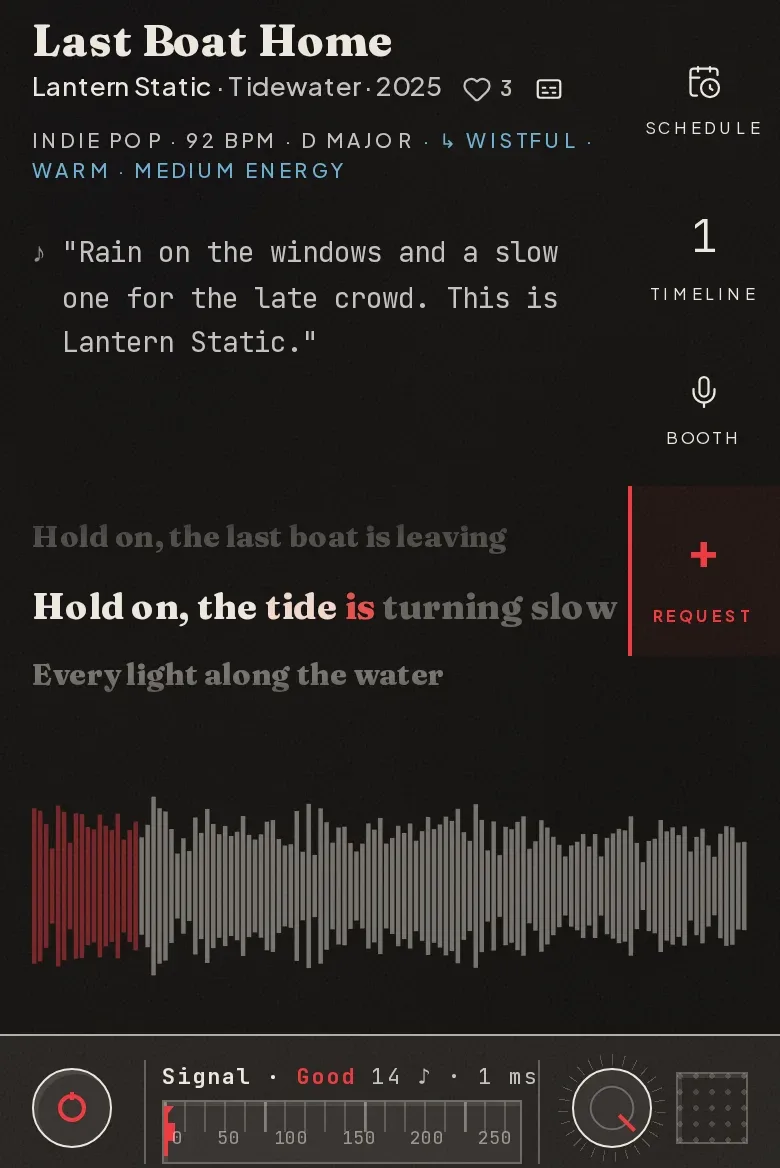
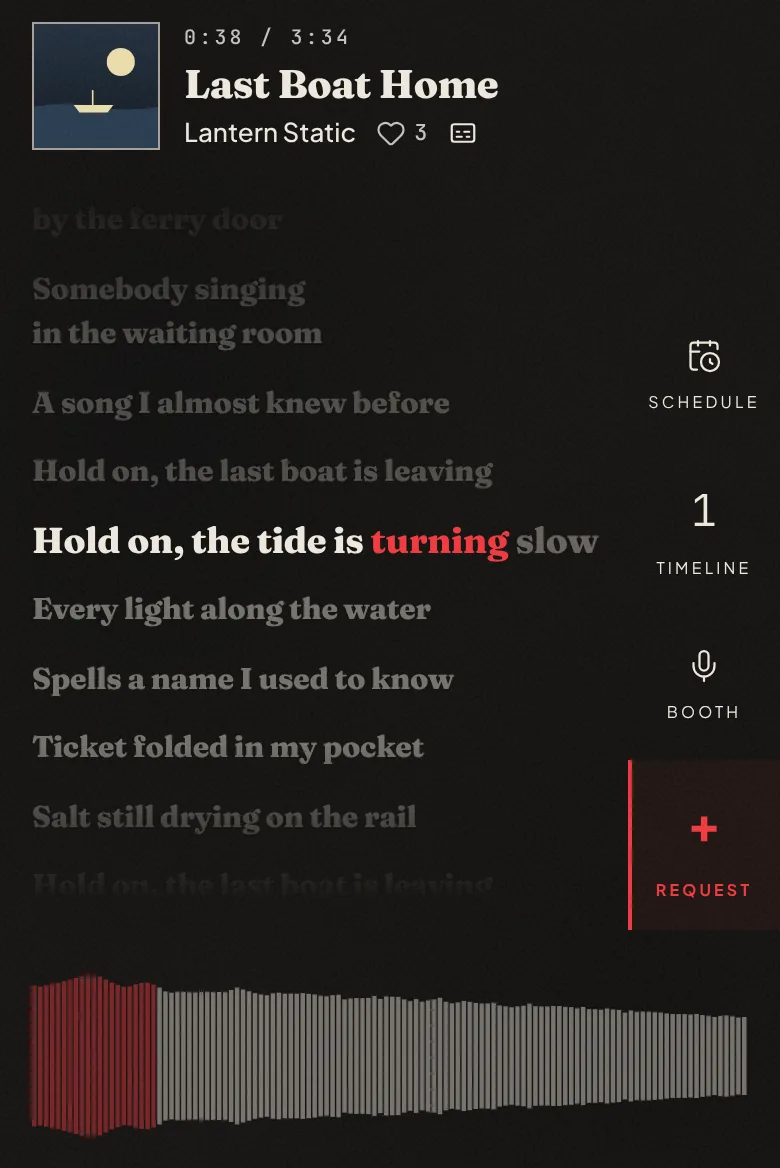
fix(lyrics): give lyrics the phone screen on the Classic skin (#2085)
With lyrics on, a phone stacked the cover over a two-line title, the
album and year, the tags, a six-line DJ line and the up-next tease above
a 124px lyrics band. The stage overflowed both ways: the cover slid
under the top bar and the DJ line ran into the lyrics.

Below sm, on a screen tall enough for lyrics, the track info now shrinks
to one row under the top bar: a 64px cover beside a one-line title, the
clock, and the artist with the heart and the lyrics button. It drops what
the lg split already drops (tags, DJ line, up next) plus the album, year,
token count and "Now playing" label. The lyrics fill everything from just
under that row to the waveform (410px on a 412x790 phone, up from 124px).
Tablet widths keep the band, lg keeps its split, and short phones still
hide the lyrics as before.

The sing-along dispatch's phone paragraph, screenshot and alt text are
updated to match, recaptured against a stand-in station with the post's
invented track and invented lyric lines.

Claude-Session: https://claude.ai/code/session_01AwGkTqgfSnjybk2UKfYNK2

diff --git a/web/components/skins/classic/CenterStage.tsx b/web/components/skins/classic/CenterStage.tsx
@@ -126,8 +126,8 @@ export interface CenterStageProps {
   /** Head of the controller's upcoming queue. Null when the queue is empty. */
   upNext: QueueEntry | null;
   /** Lyrics are showing (AmbientLyrics), synced or not: the stage gives them
-   *  the right half on wide screens and a band above the waveform on narrow
-   *  ones. */
+   *  the right half on wide screens, everything under a one-row header on a
+   *  phone, and a band above the waveform in between. */
   lyricsShown?: boolean;
   /** This listener's lyrics; absent while the station has lyrics off. */
   lyrics?: StageLyrics | null;
@@ -230,12 +230,19 @@ export default memo(function CenterStage({ nowPlaying, trackStartedAt, llmTokens
     // line. Narrower screens add --lyrics-band to the bottom reserve for the
     // band above the waveform. That band is left out on a short screen below
     // lg, so the reserve is too.
+    // A phone (below sm, tall enough for the lyrics) had no room for the band:
+    // the cover stacked over a two-line title, the tags and the DJ line ran
+    // out of the stage, up under the top bar and down into the lyrics. There
+    // the stage shrinks to one row under the top bar, a 64px cover beside a
+    // one-line title and the artist, and drops what lg drops. AmbientLyrics
+    // starts the lyrics at a fixed 152px below it, so the row stays ~65px.
     <div
       className={cn(
         'absolute top-[72px] right-[80px] bottom-[calc(220px+var(--lyrics-band,0px))] left-4 flex flex-col items-start justify-center sm:right-24 sm:left-8 [@media(min-width:640px)_and_(max-height:759px)]:bottom-[calc(212px+var(--lyrics-band,0px))] [@media(min-width:640px)_and_(max-height:759px)]:justify-end [@media(min-width:640px)_and_(min-height:760px)]:bottom-[calc(300px+var(--lyrics-band,0px))]',
         lyricsShown && '[--lyrics-band:132px] lg:[--lyrics-band:0px] [@media(max-width:1023px)_and_(max-height:699px)]:[--lyrics-band:0px]',
         // The column's rule runs up to the top bar's (49px at lg).
         lyricsShown && 'lg:top-[49px] lg:right-auto lg:left-0 lg:w-[360px] lg:border-r lg:border-separator-strong lg:px-8',
+        lyricsShown && '[@media(max-width:639px)_and_(min-height:700px)]:bottom-auto',
       )}
     >
       {/* Above the stage's lyrics (z-[1]), which the lyrics settings can
@@ -244,6 +251,8 @@ export default memo(function CenterStage({ nowPlaying, trackStartedAt, llmTokens
         className={cn(
           'relative isolate z-[2] flex flex-col items-start gap-3 sm:flex-row sm:items-center sm:gap-6',
           lyricsShown && 'lg:flex-col lg:items-start lg:gap-5',
+          // Full width, so the one-line title truncates rather than widening the row.
+          lyricsShown && '[@media(max-width:639px)_and_(min-height:700px)]:w-full [@media(max-width:639px)_and_(min-height:700px)]:flex-row [@media(max-width:639px)_and_(min-height:700px)]:items-center',
         )}
       >
         {/* Reserve the artwork slot even without a cover to prevent layout shifts. */}
@@ -258,7 +267,7 @@ export default memo(function CenterStage({ nowPlaying, trackStartedAt, llmTokens
             // cover. The 96px floor is what phones get: 14vw is only ~55px on a
             // 390px screen, too small a target for the tap-to-timeline.
             'v3-cover-frame v3-focus relative h-[clamp(96px,min(14vw,20vh),240px)] w-[clamp(96px,min(14vw,20vh),240px)] shrink-0 appearance-none border-0 bg-transparent p-0',
-            lyricsShown && 'lg:h-[min(200px,24vh)] lg:w-[min(200px,24vh)]',
+            lyricsShown && 'lg:h-[min(200px,24vh)] lg:w-[min(200px,24vh)] [@media(max-width:639px)_and_(min-height:700px)]:size-16',
             rippleActive && 'v3-cover-live',
           )}
         >
@@ -293,31 +302,34 @@ export default memo(function CenterStage({ nowPlaying, trackStartedAt, llmTokens
           <span className="v3-cover-tick v3-cover-tick--bl" aria-hidden="true" />
           <span className="v3-cover-tick v3-cover-tick--br" aria-hidden="true" />
         </button>
-        <div className="relative min-w-0">
-          <div className="v3-caption mb-[14px] text-muted">
+        {/* Static in the phone view, so the lyrics settings hang from the
+            whole row rather than from beside the cover. */}
+        <div className={cn('relative min-w-0', lyricsShown && '[@media(max-width:639px)_and_(min-height:700px)]:static')}>
+          <div className={cn('v3-caption mb-[14px] text-muted', lyricsShown && '[@media(max-width:639px)_and_(min-height:700px)]:mb-1 [@media(max-width:639px)_and_(min-height:700px)]:truncate')}>
             {offline ? (
               'Off air'
             ) : (
               <>
-                Now playing
+                {/* The phone view's row is plainly the track on air, and the
+                    label would push the clock off a narrow phone. */}
+                <span className={cn(lyricsShown && '[@media(max-width:639px)_and_(min-height:700px)]:hidden')}>
+                  Now playing{live ? ' — ' : ''}
+                </span>
                 {live && duration > 0 ? (
-                  <>
-                    {' — '}
-                    <button
-                      type="button"
-                      onClick={toggleClock}
-                      title={showRemaining ? 'Show elapsed time' : 'Show time remaining'}
-                      aria-label={showRemaining ? 'Time remaining — switch to elapsed' : 'Elapsed time — switch to remaining'}
-                      className="v3-focus v3-tab-num cursor-pointer border-0 bg-transparent p-0 font-[inherit] text-inherit uppercase"
-                    >
-                      {showRemaining
-                        ? `-${fmtTime(remaining)} / ${fmtTime(duration)}`
-                        : `${fmtTime(elapsed)} / ${fmtTime(duration)}`}
-                    </button>
-                  </>
-                ) : live ? ` — ${fmtTime(elapsed)}` : ''}
+                  <button
+                    type="button"
+                    onClick={toggleClock}
+                    title={showRemaining ? 'Show elapsed time' : 'Show time remaining'}
+                    aria-label={showRemaining ? 'Time remaining — switch to elapsed' : 'Elapsed time — switch to remaining'}
+                    className="v3-focus v3-tab-num cursor-pointer border-0 bg-transparent p-0 font-[inherit] text-inherit uppercase"
+                  >
+                    {showRemaining
+                      ? `-${fmtTime(remaining)} / ${fmtTime(duration)}`
+                      : `${fmtTime(elapsed)} / ${fmtTime(duration)}`}
+                  </button>
+                ) : live ? fmtTime(elapsed) : ''}
                 {llmTokens != null && (
-                  <>
+                  <span className={cn(lyricsShown && '[@media(max-width:639px)_and_(min-height:700px)]:hidden')}>
                     {' · '}
                     <span
                       className="inline-flex items-center gap-1 align-middle text-ink-faint"
@@ -327,7 +339,7 @@ export default memo(function CenterStage({ nowPlaying, trackStartedAt, llmTokens
                       <Coins size={12} strokeWidth={1.75} aria-hidden="true" />
                       <CountUp value={llmTokens} className="v3-tab-num" />
                     </span>
-                  </>
+                  </span>
                 )}
               </>
             )}
@@ -345,17 +357,28 @@ export default memo(function CenterStage({ nowPlaying, trackStartedAt, llmTokens
                   <h1
                     className={cn(
                       'v3-title m-0 line-clamp-2 text-ink',
-                      // .v3-title is unlayered, so its size yields only to !.
+                      // .v3-title is unlayered, so its size yields only to !,
+                      // and its text-wrap to a nowrap that is !, too.
                       lyricsShown && 'lg:text-[clamp(30px,3vw,46px)]!',
+                      lyricsShown && '[@media(max-width:639px)_and_(min-height:700px)]:block [@media(max-width:639px)_and_(min-height:700px)]:truncate! [@media(max-width:639px)_and_(min-height:700px)]:text-[20px]! [@media(max-width:639px)_and_(min-height:700px)]:leading-[1.2]!',
                     )}
                     title={nowPlaying?.title}
                   >
                     {nowPlaying?.title}
                   </h1>
-                  <div className="mt-[4px] text-[clamp(13px,1.4vw,18px)] leading-snug font-medium text-muted">
-                    <span className="text-ink">{nowPlaying?.artist || 'Unknown artist'}</span>
-                    {nowPlaying?.album && <span> · {nowPlaying.album}</span>}
-                    {nowPlaying?.year && <span> · {nowPlaying.year}</span>}
+                  {/* One line in the phone view: the artist truncates so the
+                      heart and the lyrics button stay on it. */}
+                  <div
+                    className={cn(
+                      'mt-[4px] text-[clamp(13px,1.4vw,18px)] leading-snug font-medium text-muted',
+                      lyricsShown && '[@media(max-width:639px)_and_(min-height:700px)]:flex [@media(max-width:639px)_and_(min-height:700px)]:items-center',
+                    )}
+                  >
+                    <span className={cn('text-ink', lyricsShown && '[@media(max-width:639px)_and_(min-height:700px)]:min-w-0 [@media(max-width:639px)_and_(min-height:700px)]:truncate')}>
+                      {nowPlaying?.artist || 'Unknown artist'}
+                    </span>
+                    {nowPlaying?.album && <span className={cn(lyricsShown && '[@media(max-width:639px)_and_(min-height:700px)]:hidden')}> · {nowPlaying.album}</span>}
+                    {nowPlaying?.year && <span className={cn(lyricsShown && '[@media(max-width:639px)_and_(min-height:700px)]:hidden')}> · {nowPlaying.year}</span>}
                     <LikeHeart />
                     {lyrics && (
                       <LyricsButton
@@ -367,7 +390,7 @@ export default memo(function CenterStage({ nowPlaying, trackStartedAt, llmTokens
                     )}
                   </div>
                   {hasMeta && (
-                    <div className={cn('v3-caption mt-[10px] text-muted', lyricsShown && 'lg:hidden')}>
+                    <div className={cn('v3-caption mt-[10px] text-muted', lyricsShown && 'lg:hidden [@media(max-width:639px)_and_(min-height:700px)]:hidden')}>
                       {metaTokens.join(SEP)}
                       {moodPhrase && (
                         <span className="text-accent-2">
@@ -406,7 +429,7 @@ export default memo(function CenterStage({ nowPlaying, trackStartedAt, llmTokens
           currentTrackId={subsonicId}
           buddyOn={boothBuddyOn}
           onOpenBooth={onOpenBooth}
-          className={cn(lyricsShown && 'lg:hidden')}
+          className={cn(lyricsShown && 'lg:hidden [@media(max-width:639px)_and_(min-height:700px)]:hidden')}
         />
       )}
 
@@ -422,7 +445,7 @@ export default memo(function CenterStage({ nowPlaying, trackStartedAt, llmTokens
             exit={{ opacity: 0 }}
             className={cn(
               'v3-caption v3-focus mt-[10px] max-w-full cursor-pointer truncate border-0 bg-transparent p-0 text-left text-muted',
-              lyricsShown && 'lg:hidden',
+              lyricsShown && 'lg:hidden [@media(max-width:639px)_and_(min-height:700px)]:hidden',
             )}
           >
             <span className="text-accent-2">↦ up next</span>

diff --git a/web/components/skins/classic/AmbientLyrics.tsx b/web/components/skins/classic/AmbientLyrics.tsx
@@ -4,8 +4,9 @@
 // so the line being sung holds the centre, larger, while the lines around it
 // fade, those already sung more than those to come. From lg the stage splits:
 // the track info stacks in a column on the left (CenterStage) and the lyrics
-// fill the rest above the waveform; narrower screens give them a band above
-// the waveform.
+// fill the rest above the waveform. On a phone the track info shrinks to one
+// row under the top bar and the lyrics fill everything below it; the widths
+// in between give them a band above the waveform.
 //
 // Words light up as they are sung, the newest in the accent, paced from the
 // line's own timing (LRC times lines, not words, so lyricMoment() spreads the
@@ -60,14 +61,18 @@ function useWideStage(): boolean {
 // Where the lyrics sit. Below lg: a band just above the waveform, the stage's
 // own bottom reserves plus a gap (CenterStage makes room with --lyrics-band),
 // left out on a screen too short for it, where the track info needs the room
-// more. lg and up: right of the track info's column (CenterStage's 360px),
-// beside the rail, above the waveform.
+// more. On a phone (below sm) they run from just under CenterStage's one-row
+// header (72px down, ~65px tall) to the same bottom: the room that header
+// frees by shrinking the cover and dropping the tags and the DJ line. lg and
+// up: right of the track info's column (CenterStage's 360px), beside the
+// rail, above the waveform.
 const PLACE = cn(
   'absolute z-[1] font-display text-ink',
   'right-[80px] left-4 h-[124px] sm:right-24 sm:left-8',
   'bottom-[228px] [@media(min-width:640px)_and_(max-width:1023px)]:bottom-[220px]',
   '[@media(min-width:640px)_and_(max-width:1023px)_and_(min-height:760px)]:bottom-[308px]',
   '[@media(max-width:1023px)_and_(max-height:699px)]:hidden',
+  '[@media(max-width:639px)_and_(min-height:700px)]:top-[152px] [@media(max-width:639px)_and_(min-height:700px)]:h-auto',
   'lg:top-[72px] lg:right-28 lg:left-[360px] lg:h-auto',
   '[@media(min-width:1024px)_and_(min-height:760px)]:bottom-[300px]',
   '[@media(min-width:1024px)_and_(max-height:759px)]:bottom-[212px]',

diff --git a/web/content/news/2026-10-24-sing-along-with-the-station.md b/web/content/news/2026-10-24-sing-along-with-the-station.md
@@ -18,10 +18,10 @@ On Classic, a wide screen splits in two. The cover, title and artist stack in a 
 
 ![The Classic skin in Classic Light with lyrics on: the cover, title and artist of Last Boat Home in a column on the left, and the song's lines down the right, the line being sung large and dark at the centre with its newest word in vermilion, the lines around it fading, and the waveform below](/screenshots/lyrics-classic.webp)
 
-On a phone or a narrow window the lyrics sit in a band just above the waveform.
+On a phone the cover, title and artist shrink to one row at the top, and the lyrics fill the screen below it, down to the waveform. A tablet or a narrow window gives them a band just above the waveform.
 
 <figure data-shot="phone">
-  <img src="/screenshots/lyrics-phone.webp" alt="Classic on a phone in Classic Dark: the track title, tags and the DJ's last line at the top, three lines of lyrics in a band above the waveform with the sung line in white and its newest word in red, and the tuning bar along the bottom" />
+  <img src="/screenshots/lyrics-phone.webp" alt="Classic on a phone in Classic Dark: a small cover beside the title Last Boat Home and Lantern Static in one row at the top, the song's lines filling the screen below with the sung line in white and its newest word in red, and the waveform along the bottom" />
 </figure>
 
 Drift makes them the middle of the page. The cover and title shrink to one small row, and three lines share the centre: the one just sung, faint above, the one being sung, large, and the next one waiting below. Lines fade in and out in place, at Drift's slower pace.
